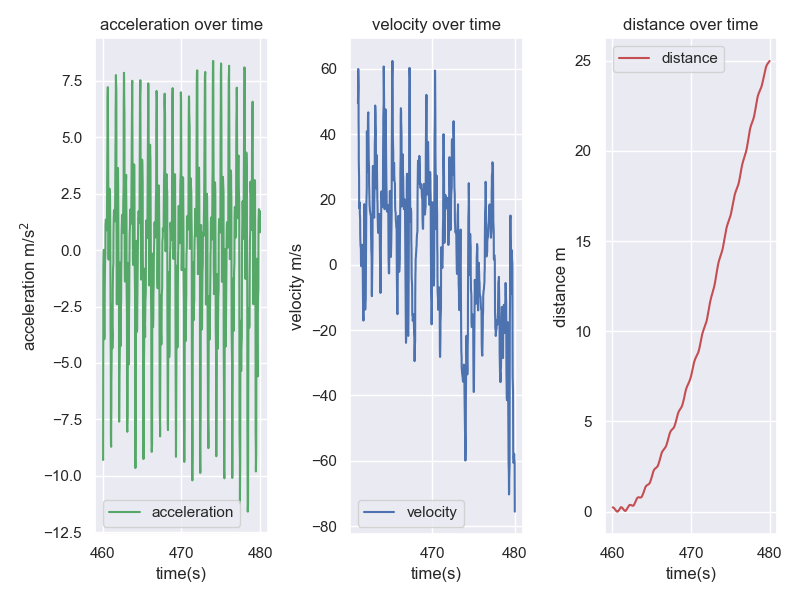
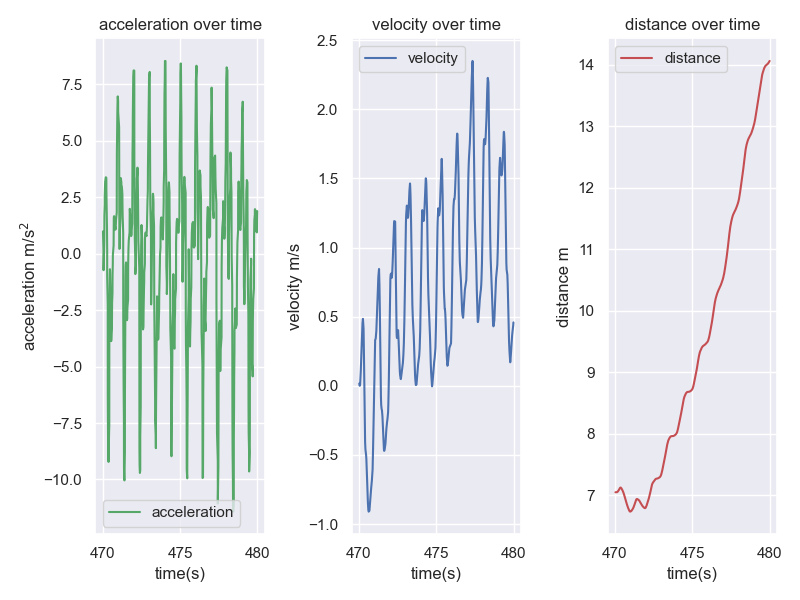
added more to bigscale

diff --git a/Python/big_scale_velocity.py b/Python/big_scale_velocity.py
@@ -6,7 +6,7 @@ from scipy import signal
 from scipy.fft import fft, ifft, fftfreq
 import seaborn
 from scipy import integrate
-
+import math
 
 
 def main(in_directory):
@@ -18,10 +18,10 @@ def main(in_directory):
     #give columns variable names
     time = data['time']
     x = data['gFx'] 
-    print(data)
+    # print(data)
     # total = data['']
 
-    #useful values
+    #useful values for filtering
     Freq = time.count() / time.max() #the Hz can be calculated this way
     good_but = 10/Freq
 
@@ -29,54 +29,61 @@ def main(in_directory):
     b, a = signal.butter(3, good_but, btype='lowpass', analog=False)
     filtered_x = signal.filtfilt(b, a, x)
 
-    #lets try to find velocity
+    #Noticed that if window is too large method wont work so this limits window and correct for
     x_acceleration = pd.DataFrame({'time':time,'g-force':filtered_x})
-    x_acceleration = x_acceleration[x_acceleration['time']>460]
-    x_acceleration = x_acceleration[x_acceleration['time']<480]
     x_acceleration['acceleration'] = x_acceleration['g-force'].multiply(9.81)
-    print(x_acceleration)
 
-    print(x_acceleration)
+    #still going to remove first and last 3 mins cause they are likely me trying to setup and stop app
     
-    x_acceleration['acceleration'] = x_acceleration['acceleration']-x_acceleration['acceleration'].mean() #x_acceleration['acceleration'].mean()
-    x_acceleration['abs'] = x_acceleration['acceleration'].abs()
-    # x_acceleration = x_acceleration[x_acceleration['abs']>5]
-
-    print(x_acceleration['acceleration'].mean())
+    #code for limiting window when experimenting
+    # x_acceleration = x_acceleration[x_acceleration['time']>60*1]
+    # endtime = x_acceleration['time'].max()
+    # x_acceleration = x_acceleration[x_acceleration['time']<600]
+   
+    #this time i need to calculate the rolling mean with 
+    mean = x_acceleration
+    mean['time'] = mean['time']
+    mean = mean.set_index('time')
+    mean = mean.rolling(math.ceil(Freq*20)).apply(integrate.trapz) #assume somewhat evenly distributed data every 1 second which is Freq
+    print(mean)
+    mean = mean.reset_index()
+    x_acceleration['acceleration'] = x_acceleration['acceleration'] - mean['acceleration']
+    x_acceleration = x_acceleration.dropna()
     plt.plot(x_acceleration['time'],x_acceleration['acceleration'])
-    plt.title('acceleration over time')
-    plt.xlabel('time(s)')
-    plt.ylabel('acceleration m/s$^2$')
     plt.show()
 
     # # #do some integration to get velocity, note that we run into issue of an ever increasing acceleration
-
+    #same code as before in KevinVelocity
     x = x_acceleration
     start = x['time'].min()
-    df = pd.DataFrame()
-    df['time'] = x['time']
-    df['v'] = x_acceleration['acceleration']
-    # df['v'] = integrate.cumtrapz(x_acceleration['acceleration'],x_acceleration['time'],initial=start)
-    df = df.set_index('time')
-
-    print(df)
-    df = df.rolling(window = 100).apply(integrate.trapz)
-    print(df)
     Velocity = integrate.cumtrapz(x_acceleration['acceleration'],x_acceleration['time'],initial=start)
-    
-    print(df)
-    # x = x[x['v']>0]
-    plt.plot(df.index,df['v'],'b-',label='velocity')
+    plt.subplot(1,3,1)
     plt.plot(x_acceleration['time'],x_acceleration['acceleration'],'g-',label='acceleration')
-    plt.title('velocity over time')
-
-    Dist = integrate.cumtrapz(Velocity,x_acceleration['time'],initial=start)
-    plt.plot(x_acceleration['time'],Dist,'r-',label='distance')
+    plt.title('acceleration over time')
+    plt.xlabel('time(s)')
+    plt.ylabel('acceleration m/s$^2$')
     plt.legend()
-    plt.show()
 
+    plt.subplot(1,3,2)
+    plt.plot(x_acceleration.iloc[1:,0],Velocity[1:],'b-',label='velocity')
+    plt.title('velocity over time')
+    plt.xlabel('time(s)')
+    plt.ylabel('velocity m/s')
+    plt.legend()   
 
-
+    #integrating the distance and plot
+    Dist = integrate.cumtrapz(Velocity,x_acceleration['time'],initial=start)
+    plt.subplot(1,3,3)
+    plt.plot(x_acceleration.iloc[1:,0],Dist[1:],'r-',label='distance') #had to remove first line of plot because of issue with nature of integrals
+    plt.title('distance over time')
+    plt.xlabel('time(s)')
+    plt.ylabel('distance m')
+    plt.legend()
+    # plt.show()
+    figure = plt.gcf()
+    figure.set_size_inches(8, 6)
+    figure.tight_layout()
+    figure.savefig('Report_and_Figures/vel_dist_long.png',dpi=100)
 
 if __name__=='__main__':
     in_directory = sys.argv[1]

diff --git a/Python/KevinVelocity.py b/Python/KevinVelocity.py
@@ -31,7 +31,7 @@ def main(in_directory):
 
     #Noticed that if window is too large method wont work so this limits window and correct for
     x_acceleration = pd.DataFrame({'time':time,'g-force':filtered_x})
-    x_acceleration = x_acceleration[x_acceleration['time']>460]
+    x_acceleration = x_acceleration[x_acceleration['time']>470]
     x_acceleration = x_acceleration[x_acceleration['time']<480]
     x_acceleration['acceleration'] = x_acceleration['g-force'].multiply(9.81)
     x_acceleration['acceleration'] = x_acceleration['acceleration']-x_acceleration['acceleration'].mean() 
@@ -44,13 +44,6 @@ def main(in_directory):
 
     x = x_acceleration
     start = x['time'].min()
-    df = pd.DataFrame()
-    df['time'] = x['time']
-    df['v'] = x_acceleration['acceleration']
-
-    df = df.set_index('time')
-
-    df = df.rolling(window = 100).apply(integrate.trapz)
 
     Velocity = integrate.cumtrapz(x_acceleration['acceleration'],x_acceleration['time'],initial=start)
     
@@ -62,7 +55,7 @@ def main(in_directory):
     plt.legend()
 
     plt.subplot(1,3,2)
-    plt.plot(df.index,df['v'],'b-',label='velocity')
+    plt.plot(x_acceleration.iloc[1:,0],Velocity[1:],'b-',label='velocity')
     plt.title('velocity over time')
     plt.xlabel('time(s)')
     plt.ylabel('velocity m/s')

diff --git a/Python/KevinAnalysis_Fourier.py b/Python/KevinAnalysis_Fourier.py
@@ -16,7 +16,7 @@ def main(in_directory):
     L= int(data.shape[0])
 
     #butter fractions
-    strin_but= 5/Freq
+    strin_but= 4/Freq
     good_but = 10/Freq
     lax_but =  20/Freq
     #give columns variable names
@@ -102,11 +102,16 @@ def main(in_directory):
     plt.subplot(2,3,6)
     plt.plot(time,x,'b.')
     plt.plot(time,filtered_x,'r-')
+    plt.ylabel('acceleration in gs (1g ~= 9.8m/s^2)')
+    plt.xlabel('time in seconds')
+    plt.legend(labels=('raw','filtered'))
     plt.xlim(500,503)
+    
+    #stuff for saving
     figure = plt.gcf()
-    figure.set_size_inches(8, 6)
+    figure.set_size_inches(20, 10)
     figure.tight_layout()
-    plt.savefig('Report_and_Figures/fourier_analysis.png')
+    figure.savefig('Report_and_Figures/fourier_analysis.png',dpi=100)
     plt.show()
   
 

diff --git a/Python/KevinAnalysis_filtering.py b/Python/KevinAnalysis_filtering.py
@@ -76,7 +76,7 @@ def main(in_directory):
     figure = plt.gcf()
     figure.set_size_inches(8, 6)
     figure.tight_layout()
-    plt.savefig('Report_and_Figures/filtering_analysis.png')
+    plt.savefig('Report_and_Figures/filtering_analysis.png',dpi=100)
     plt.show()
 
     # print(walking_data)
